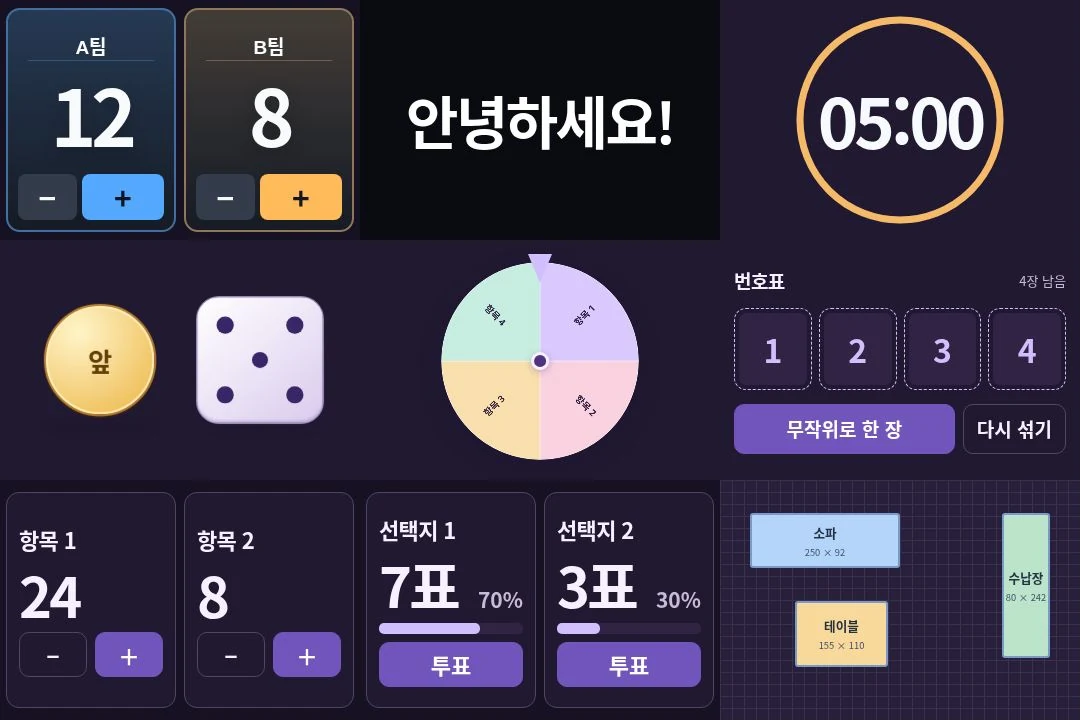
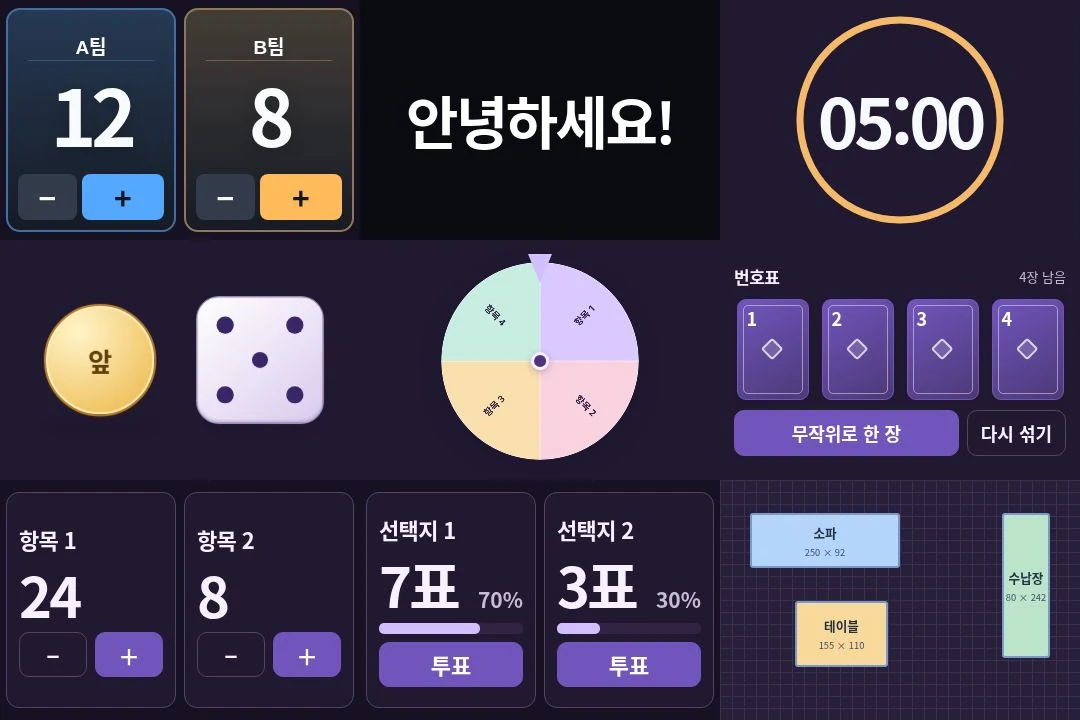
Refine MoaDeck tool results, card draws, and full-screen views

Changed region(s): [[0.6722, 0.3667, 1.0, 0.6417], [0.6722, 0.6111, 0.7028, 0.6417]]

diff --git a/tools/bigtext.html b/tools/bigtext.html
@@ -27,13 +27,14 @@ input[type=range]{width:100%;accent-color:#b8acff}
 .palette button{height:38px;min-width:60px;font-weight:700}
 .palette button[aria-pressed=true]{outline:2px solid #fff;outline-offset:3px}
 .full-btn{margin-top:auto;border:0;border-radius:14px;background:#b7acff;color:#131625;font-weight:800;min-height:54px;font-size:15px}
-.preview{position:relative;background:#090b11;color:#fff;min-height:350px;border-radius:23px;border:1px solid var(--line);display:grid;place-items:center;text-align:center;overflow:hidden;padding:35px 22px}
+.preview{position:relative;background:#090b11;color:#fff;min-height:350px;min-width:0;border-radius:23px;border:1px solid var(--line);display:grid;place-items:center;text-align:center;overflow:hidden;padding:35px 22px}
 .preview::before{content:"미리보기";position:absolute;top:18px;left:20px;font-size:11px;letter-spacing:.1em;color:currentColor;opacity:.6;font-weight:700}
 .preview-text{font-weight:800;line-height:1.25;letter-spacing:-.045em;overflow-wrap:anywhere;white-space:pre-wrap;width:100%;font-size:clamp(30px,5vw,76px)}
 .hint{font-size:12px;color:var(--muted);line-height:1.6}
 .display{display:none;position:fixed;inset:0;z-index:100;background:#090b11;color:#fff;align-items:center;justify-content:center;padding:calc(env(safe-area-inset-top) + 30px) calc(env(safe-area-inset-right) + 28px) calc(env(safe-area-inset-bottom) + 30px) calc(env(safe-area-inset-left) + 28px);text-align:center}
 .display.active{display:flex}
-.display-text{font-size:clamp(42px,12vw,170px);font-weight:850;letter-spacing:-.05em;line-height:1.2;overflow-wrap:anywhere;white-space:pre-wrap;max-height:100%;overflow:auto}
+.display-text{width:100%;font-size:clamp(42px,12vw,170px);font-weight:850;letter-spacing:-.05em;line-height:1.2;overflow-wrap:anywhere;white-space:pre-wrap;max-height:100%;overflow:auto}
+.display[data-fit] .display-text{height:100%;display:grid;grid-template-columns:minmax(0,1fr);align-items:center;overflow:hidden}
 .display{touch-action:manipulation;-webkit-user-select:none;user-select:none}.exit{position:absolute!important;width:1px;height:1px;padding:0;margin:-1px;overflow:hidden;clip-path:inset(50%);white-space:nowrap;border:0}.exit:focus-visible{width:auto;height:auto;clip-path:none;overflow:visible;right:15px;top:15px;padding:8px;background:#333;color:#fff;border-radius:10px}
 @media(max-width:750px){.layout{grid-template-columns:1fr}.settings{padding:20px}.preview{min-height:260px}.wrap{gap:14px}.display-text{font-size:clamp(44px,14vw,170px)}}
 @media(min-width:750px) and (max-height:600px){.preview{min-height:200px}.settings{gap:12px}}
@@ -52,34 +53,71 @@ input[type=range]{width:100%;accent-color:#b8acff}
 <button id="show" class="full-btn" type="button">화면 가득 표시</button>
 <p class="hint">입력한 문구와 설정은 이 기기에 저장됩니다. 전체화면을 빠르게 두 번 탭하면 편집 화면으로 돌아갑니다.</p>
 </section>
-<section class="preview" id="preview" aria-label="표시 미리보기"><div class="preview-text" id="previewText"></div></section>
+<button class="preview" id="preview" type="button" aria-label="미리보기 최대 크기로 표시"><span class="preview-text" id="previewText"></span></button>
 </div></div>
-<section id="display" class="display" role="dialog" aria-modal="true" aria-label="대형 글씨 전체 화면" aria-hidden="true"><button id="exit" class="exit" type="button">편집 화면으로 돌아가기</button><div id="displayText" class="display-text"></div></section>
+<section id="display" class="display" role="dialog" aria-modal="true" aria-label="대형 글씨 전체 화면" aria-hidden="true"><button id="exit" class="exit" type="button">편집 화면으로 돌아가기</button><div id="displayText" class="display-text"><div id="displayContent"></div></div></section>
 <script>
 'use strict';
 const key='duo-hub-bigtext-v1',palettes={night:['#090b11','#ffffff'],light:['#fffefa','#172033'],blue:['#2047b2','#ffffff'],gold:['#ffe77a','#292416']};
 const message=document.getElementById('message'),size=document.getElementById('size'),preview=document.getElementById('preview'),display=document.getElementById('display');
+const editor=document.querySelector('.wrap'),show=document.getElementById('show'),exit=document.getElementById('exit'),displayText=document.getElementById('displayText');
+const displayContent=document.getElementById('displayContent');
 let selected='night';
 try{const s=JSON.parse(localStorage.getItem(key));if(s&&typeof s.message==='string')message.value=s.message.slice(0,400);if(s&&Number.isFinite(s.size))size.value=Math.min(170,Math.max(60,s.size));if(s&&palettes[s.palette])selected=s.palette}catch(e){}
 function save(){try{localStorage.setItem(key,JSON.stringify({message:message.value,size:Number(size.value),palette:selected}))}catch(e){}}
 function refresh(){
  const content=message.value.trim()||'글씨를 입력하세요';
  document.getElementById('previewText').textContent=content;
- document.getElementById('displayText').textContent=content;
+ displayContent.textContent=content;
  const [bg,fg]=palettes[selected];preview.style.background=bg;preview.style.color=fg;display.style.background=bg;display.style.color=fg;
  document.getElementById('sizeValue').textContent=size.value+'%';
  document.getElementById('previewText').style.fontSize='clamp(27px,'+(Number(size.value)*.055)+'vw,130px)';
- document.getElementById('displayText').style.fontSize='clamp(30px,'+(Number(size.value)*.13)+'vw,260px)';
+ displayText.style.fontSize='clamp(30px,'+(Number(size.value)*.13)+'vw,260px)';
  document.querySelectorAll('[data-palette]').forEach(b=>b.setAttribute('aria-pressed',String(b.dataset.palette===selected)));
  save();
 }
 message.addEventListener('input',refresh);size.addEventListener('input',refresh);
 document.querySelectorAll('[data-phrase]').forEach(b=>b.addEventListener('click',()=>{message.value=b.dataset.phrase;refresh();message.focus()}));
 document.querySelectorAll('[data-palette]').forEach(b=>b.addEventListener('click',()=>{selected=b.dataset.palette;refresh()}));
-function closeDisplay(){lastTap=0;display.classList.remove('active');display.setAttribute('aria-hidden','true');document.body.style.overflow='';document.getElementById('show').focus()}
-document.getElementById('show').addEventListener('click',()=>{refresh();display.classList.add('active');display.setAttribute('aria-hidden','false');document.body.style.overflow='hidden';document.getElementById('exit').focus()});
-document.getElementById('exit').addEventListener('click',closeDisplay);
-let lastTap=0;
+let lastTap=0,displayTrigger=show;
+function fitDisplay(){
+ if(!display.hasAttribute('data-fit'))return;
+ const maxHeight=displayText.clientHeight;
+ const maxWidth=displayText.clientWidth;
+ let min=1,max=maxHeight;
+ while(min<max){
+  const candidate=Math.ceil((min+max)/2);
+  displayText.style.fontSize=candidate+'px';
+  const fits=displayContent.scrollHeight<=maxHeight&&displayContent.scrollWidth<=maxWidth;
+  if(fits)min=candidate;
+  else max=candidate-1;
+ }
+ displayText.style.fontSize=min+'px';
+}
+function openDisplay(trigger){
+ refresh();
+ displayTrigger=trigger;
+ display.toggleAttribute('data-fit',trigger===preview);
+ display.classList.add('active');
+ display.setAttribute('aria-hidden','false');
+ document.body.style.overflow='hidden';
+ editor.inert=true;
+ fitDisplay();
+ exit.focus({preventScroll:true});
+}
+function closeDisplay(){
+ lastTap=0;
+ display.classList.remove('active');
+ display.removeAttribute('data-fit');
+ display.setAttribute('aria-hidden','true');
+ document.body.style.overflow='';
+ editor.inert=false;
+ displayTrigger.focus({preventScroll:true});
+}
+show.addEventListener('click',()=>openDisplay(show));
+preview.addEventListener('click',()=>openDisplay(preview));
+exit.addEventListener('click',closeDisplay);
+window.addEventListener('resize',fitDisplay);
 display.addEventListener('pointerup',e=>{
  if(e.target.closest('button')||!display.classList.contains('active'))return;
  const now=Date.now();

diff --git a/space-studio/index.html b/space-studio/index.html
@@ -56,6 +56,20 @@ html { scrollbar-gutter:stable; }
 .s-editbar select { flex:1 1 130px; max-width:340px; min-width:0; min-height:44px; border:1px solid var(--line); border-radius:9px; background:var(--panel); color:var(--text); font:inherit; font-size:16px; padding:4px 8px; }
 .s-room-actions, .s-status { margin-left:auto; }
 .s-viewbar { position:sticky; top:env(safe-area-inset-top); z-index:6; background:var(--panel); border-bottom:1px solid var(--line); }
+.s-fullscreen-button { margin-inline-start:auto; background:var(--soft); color:var(--accent); }
+.s-fullscreen {
+  position:fixed; inset:0; width:100%; height:100%; max-width:none; max-height:none; margin:0; border:0;
+  padding:max(10px, env(safe-area-inset-top)) max(8px, env(safe-area-inset-right))
+          max(14px, env(safe-area-inset-bottom)) max(8px, env(safe-area-inset-left));
+  background:var(--stage); color:var(--text); overflow:hidden;
+}
+.s-fullscreen[open] { display:grid; grid-template-rows:auto minmax(0, 1fr); gap:12px; }
+.s-fullscreen-header { display:flex; align-items:center; justify-content:space-between; gap:12px; }
+.s-fullscreen-header h2 { margin:0; font-size:16px; }
+.s-fullscreen-stage { display:grid; place-items:center; container-type:size; }
+.s-fullscreen .s-board { width:min(100cqw, calc(100cqh * var(--room-ratio))); aspect-ratio:var(--room-ratio); overflow:hidden; }
+.s-fullscreen .s-shape { cursor:default; }
+body:has(.s-fullscreen[open]) { overflow:hidden; }
 .s-options { border-top:1px solid var(--line); }
 .s-options summary { display:flex; align-items:center; min-height:44px; padding:0 12px; cursor:pointer; color:var(--text); font-size:13px; font-weight:700; }
 .s-options summary::before { content:'›'; margin-right:7px; font-size:20px; }
@@ -103,9 +117,10 @@ html { scrollbar-gutter:stable; }
    <button type="button" class="s-btn" data-action="zoom-out" aria-label="축소">−</button>
    <output data-zoom aria-label="화면 맞춤 대비 배율">100%</output>
    <button type="button" class="s-btn" data-action="zoom-in" aria-label="확대">＋</button>
-   <button type="button" class="s-btn" data-action="zoom-fit">전체 보기</button>
+   <button type="button" class="s-btn" data-action="zoom-fit">화면 맞춤</button>
    <button type="button" class="s-btn" data-action="zoom-width">너비 맞춤</button>
   </div>
+  <button type="button" class="s-btn s-fullscreen-button" data-action="fullscreen" aria-haspopup="dialog" aria-controls="roomFullscreen">전체 화면</button>
  </div>
  <div class="s-stage">
   <div class="s-surface" data-surface><div class="s-board" data-board></div></div>
@@ -139,6 +154,13 @@ html { scrollbar-gutter:stable; }
  </div>
  <div class="s-settings"><label>공간 가로 <input type="number" min="200" max="2500" value="600" data-room="w">cm</label><label>세로 <input type="number" min="200" max="2500" value="400" data-room="h">cm</label><label><input type="checkbox" data-snap>5cm 맞춤</label></div>
  </details>
+ <dialog id="roomFullscreen" class="s-fullscreen" aria-labelledby="roomFullscreenTitle">
+  <header class="s-fullscreen-header">
+   <h2 id="roomFullscreenTitle">배치도</h2>
+   <form method="dialog"><button type="submit" class="s-btn" autofocus>닫기</button></form>
+  </header>
+  <div class="s-fullscreen-stage"><div class="s-board" data-fullscreen-board></div></div>
+ </dialog>
 </div>
 <script>
 (()=>{
@@ -150,6 +172,7 @@ html { scrollbar-gutter:stable; }
  const snapshot=()=>JSON.parse(JSON.stringify(state));const remember=()=>{undo.push(snapshot());if(undo.length>40)undo.shift()};
  const zoomOut=$('[data-action="zoom-out"]'),zoomIn=$('[data-action="zoom-in"]');
  const zoomOutput=$('[data-zoom]'),editButton=$('[data-action="edit"]');
+ const fullscreen=$('#roomFullscreen'),fullscreenBoard=$('[data-fullscreen-board]');
  const minZoom=0.6;
  const viewportMeasure=$('[data-viewport-measure]');
  let zoom=1, visibleZoom=1, previousSize;
@@ -250,10 +273,25 @@ html { scrollbar-gutter:stable; }
  }
  const chosen=()=>state.rects.find(r=>r.id===state.selectedId);const sn=n=>state.snap?Math.round(n/5)*5:Math.round(n);
  function loc(el,r){el.style.left=(100*r.x/state.room.w)+'%';el.style.top=(100*r.y/state.room.h)+'%';el.style.width=(100*r.w/state.room.w)+'%';el.style.height=(100*r.h/state.room.h)+'%';}
- function draw(){sizeBoard();board.style.backgroundSize=`${2000/state.room.w}% ${2000/state.room.h}%`;board.replaceChildren();
-  for(const r of state.rects){const el=document.createElement('div');el.className='s-shape'+(r.id===state.selectedId?' s-selected':'');el.dataset.id=r.id;el.style.background=r.color;loc(el,r);
+ function drawBoard(target){
+  target.style.backgroundSize=`${2000/state.room.w}% ${2000/state.room.h}%`;
+  target.replaceChildren();
+  for(const r of state.rects){
+   const selected=target===board&&r.id===state.selectedId;
+   const el=document.createElement('div');el.className='s-shape'+(selected?' s-selected':'');el.dataset.id=r.id;el.style.background=r.color;loc(el,r);
    const label=document.createElement('b');label.textContent=r.name;const size=document.createElement('small');size.textContent=r.w+' × '+r.h;el.append(label,size);
-   if(r.id===state.selectedId){for(const corner of ['nw','ne','sw','se']){const h=document.createElement('div');h.className='s-handle';h.dataset.corner=corner;el.append(h)}}board.append(el)}
+   if(selected){for(const corner of ['nw','ne','sw','se']){const h=document.createElement('div');h.className='s-handle';h.dataset.corner=corner;el.append(h)}}
+   target.append(el);
+  }
+ }
+ function drawFullscreen(){
+  fullscreenBoard.style.setProperty('--room-ratio',state.room.w/state.room.h);
+  drawBoard(fullscreenBoard);
+ }
+ function draw(){
+  sizeBoard();
+  drawBoard(board);
+  if(fullscreen.open)drawFullscreen();
   picker.replaceChildren(new Option('개체 선택',''),...state.rects.map(r=>new Option(r.name,r.id)));
   picker.value=state.selectedId??'';
   picker.disabled=state.rects.length===0;
@@ -284,6 +322,7 @@ html { scrollbar-gutter:stable; }
    if(popup.hidden)openPopup();
    else close();
   }
+  if(action==='fullscreen'){drawFullscreen();fullscreen.showModal();return}
   if(action==='add'){if(state.rects.length>=150)return;remember();const id='n'+state.nextId,w=Math.min(140,state.room.w),h=Math.min(90,state.room.h);state.rects.push({id,name:'네모 '+state.nextId,x:clamp(state.nextId*34,0,state.room.w-w),y:clamp(state.nextId*26,0,state.room.h-h),w,h,color:colors[(state.nextId-1)%colors.length]});state.nextId++;state.selectedId=id;close();draw();}
   if(action==='undo'&&undo.length){state=undo.pop();close();draw()}
   if(action==='reset'){remember();state=first();close();draw()}

diff --git a/tools/lots.html b/tools/lots.html
@@ -13,15 +13,18 @@
   <style>
     html { scrollbar-gutter: stable; }
     .ticket-top, .labels-top { justify-content: space-between; }
-    .tickets { display: grid; grid-template-columns: repeat(auto-fit, minmax(66px, 1fr)); gap: 8px; }
+    .tickets { display: grid; grid-template-columns: repeat(auto-fit, minmax(54px, 1fr)); gap: 10px 8px; }
     .ticket {
       position: relative;
       display: block;
+      justify-self: center;
+      width: 100%;
       min-width: 0;
-      height: 62px;
+      max-width: 92px;
+      aspect-ratio: 5 / 7;
       padding: 0;
       border: 0;
-      border-radius: 12px;
+      border-radius: 9px;
       background: transparent;
       color: var(--ink);
       perspective: 380px;
@@ -43,26 +46,58 @@
       place-items: center;
       padding: 0 7px;
       border: 1px solid var(--line);
-      border-radius: 12px;
+      border-radius: 9px;
       backface-visibility: hidden;
       -webkit-backface-visibility: hidden;
     }
     .ticket-front {
-      border: 1px dashed var(--accent);
-      background: var(--wash);
-      color: var(--accent);
-      font-size: 19px;
+      border-color: var(--primary);
+      background: linear-gradient(150deg, var(--primary), var(--wash) 175%);
+      color: #fff;
+      font-size: 14px;
       font-weight: 850;
-      box-shadow: inset 0 0 0 4px var(--surface);
+      font-variant-numeric: tabular-nums;
+      box-shadow: 0 2px 4px #18092830;
+    }
+    .ticket-front::before {
+      content: "";
+      position: absolute;
+      inset: 5px;
+      border: 1px solid #ffffff74;
+      border-radius: 5px;
+    }
+    .ticket-front::after {
+      content: "";
+      width: 22%;
+      aspect-ratio: 1;
+      border: 2px solid #ffffffb8;
+      border-radius: 3px;
+      background: #ffffff26;
+      transform: rotate(45deg);
+    }
+    .ticket-number {
+      position: absolute;
+      top: 8px;
+      left: 9px;
+      line-height: 1;
     }
     .ticket-back {
-      background: var(--bg);
+      background: var(--surface);
       color: var(--ink);
-      font-size: 13px;
-      font-weight: 780;
+      font-size: 16px;
+      font-weight: 800;
+      box-shadow: inset 0 0 0 4px var(--wash), 0 2px 4px #18092820;
       transform: rotateY(180deg);
     }
-    .ticket-label { width: 100%; text-align: center; overflow: hidden; white-space: nowrap; text-overflow: ellipsis; }
+    .ticket-label {
+      display: -webkit-box;
+      -webkit-box-orient: vertical;
+      -webkit-line-clamp: 3;
+      width: 100%;
+      overflow: hidden;
+      overflow-wrap: anywhere;
+      text-align: center;
+    }
     .ticket.revealed .ticket-flip { transform: rotateY(180deg); }
     .ticket.latest .ticket-back { border-color: var(--accent); }
     .ticket.drawing { z-index: 2; }
@@ -123,6 +158,6 @@
       </form>
     </div>
   </main>
-  <script type="module" src="../assets/lots.js?v=tickets-2"></script>
+  <script type="module" src="../assets/lots.js?v=cards"></script>
 </body>
 </html>

diff --git a/tools/chance.html b/tools/chance.html
@@ -53,6 +53,8 @@
     .stepper input::-webkit-inner-spin-button { appearance: none; }
     .roll { flex: 1 1 120px; padding: 8px 15px; border: 0; border-radius: 10px; background: #6042ac; color: white; font-weight: 750; }
     .summary { min-height: 1.5em; margin: 21px 0 10px; color: var(--muted); font-size: 14px; }
+    .summary strong { display: block; color: var(--ink); font-size: 24px; line-height: 1.2; font-variant-numeric: tabular-nums; }
+    .summary strong + span { display: block; margin-top: 5px; }
     .roll[aria-disabled="true"] { opacity: .72; cursor: default; }
     .results {
       display: grid;
@@ -176,7 +178,7 @@
         </div>
         <button id="roll" class="roll" type="submit">동전 던지기</button>
       </form>
-      <p id="summary" class="summary" role="status"></p>
+      <p id="summary" class="summary" role="status" aria-atomic="true"></p>
       <ol id="results" class="results" aria-label="개별 결과"></ol>
     </section>
   </main>
@@ -292,12 +294,19 @@
     function announceResults(values) {
       if (!values.length) {
         summary.textContent = '개수를 정한 뒤 던지세요.';
-      } else if (active === 'coin') {
-        const heads = values.filter(value => value === 1).length;
-        summary.textContent = '앞면 ' + heads + '개 · 뒷면 ' + (values.length - heads) + '개';
-      } else {
-        summary.textContent = values.length + '개 · 합계 ' + values.reduce((sum, value) => sum + value, 0);
+        return;
       }
+      const total = document.createElement('strong');
+      const detail = document.createElement('span');
+      if (active === 'coin') {
+        const heads = values.filter(value => value === 1).length;
+        total.textContent = '합계 ' + heads + '점';
+        detail.textContent = '앞면 ' + heads + '개 (1점) · 뒷면 ' + (values.length - heads) + '개 (0점)';
+      } else {
+        total.textContent = '합계 ' + values.reduce((sum, value) => sum + value, 0);
+        detail.textContent = '주사위 ' + values.length + '개';
+      }
+      summary.replaceChildren(total, detail);
     }
 
     for (const button of modeButtons) {

diff --git a/assets/lots.js b/assets/lots.js
@@ -135,8 +135,8 @@ function drawDeck() {
     const button = document.createElement('button');
     button.type = 'button';
     button.className = 'ticket';
-    button.innerHTML = '<span class="ticket-flip" aria-hidden="true"><span class="ticket-face ticket-front"></span><span class="ticket-face ticket-back"><span class="ticket-label"></span></span></span>';
-    button.querySelector('.ticket-front').textContent = slot + 1;
+    button.innerHTML = '<span class="ticket-flip" aria-hidden="true"><span class="ticket-face ticket-front"><span class="ticket-number"></span></span><span class="ticket-face ticket-back"><span class="ticket-label"></span></span></span>';
+    button.querySelector('.ticket-number').textContent = slot + 1;
     button.setAttribute('aria-label', (slot + 1) + '번 제비 뽑기');
     button.addEventListener('click', () => draw(slot));
     return button;

diff --git a/index.html b/index.html
@@ -36,7 +36,7 @@
   --accent: #6042ac;
   --selected: #eae1ff;
   --theme-color: #f7f5fc;
-  --tool-thumbnails: url("assets/tool-thumbnails-light.webp");
+  --tool-thumbnails: url("assets/tool-thumbnails-light.webp?v=cards");
   font-family: -apple-system, BlinkMacSystemFont, "Apple SD Gothic Neo", system-ui, sans-serif;
 }
 :root[data-theme="dark"] {
@@ -49,7 +49,7 @@
   --accent: #d1beff;
   --selected: #362650;
   --theme-color: #171124;
-  --tool-thumbnails: url("assets/tool-thumbnails-dark.webp");
+  --tool-thumbnails: url("assets/tool-thumbnails-dark.webp?v=cards");
 }
 * { box-sizing: border-box; }
 html { background: var(--background); }

diff --git a/assets/tally.js b/assets/tally.js
@@ -164,10 +164,7 @@ add.addEventListener('click', () => {
   const item = { id: nextId++, label: noun + ' ' + (nextId - 1), count: 0 };
   state.items.push(item);
   render();
-  const input = $('[data-role="name"]', rows.get(item.id));
-  input.focus();
-  input.select();
-  save();
+  save(item.label + ' 추가됨');
 });
 
 undo.addEventListener('click', () => {

diff --git a/tools/counters.html b/tools/counters.html
@@ -56,6 +56,6 @@
       </div>
     </article>
   </template>
-  <script type="module" src="../assets/tally.js"></script>
+  <script type="module" src="../assets/tally.js?v=add-without-focus"></script>
 </body>
 </html>

diff --git a/tools/vote.html b/tools/vote.html
@@ -56,6 +56,6 @@
       </div>
     </article>
   </template>
-  <script type="module" src="../assets/tally.js"></script>
+  <script type="module" src="../assets/tally.js?v=add-without-focus"></script>
 </body>
 </html>
